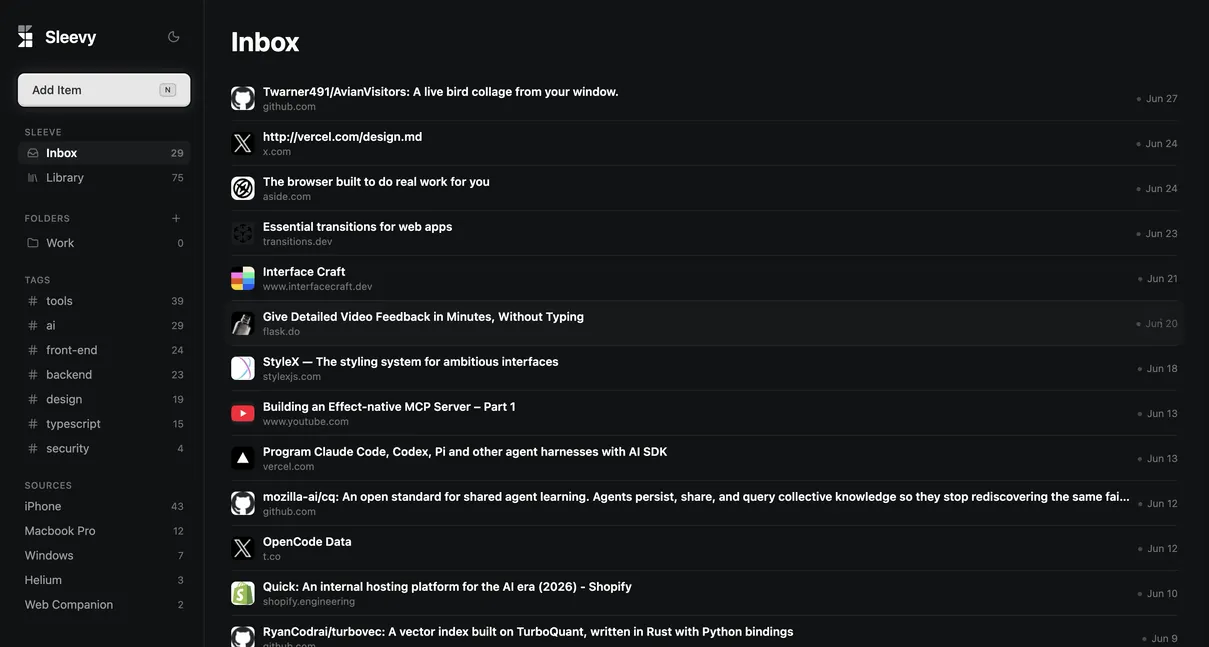
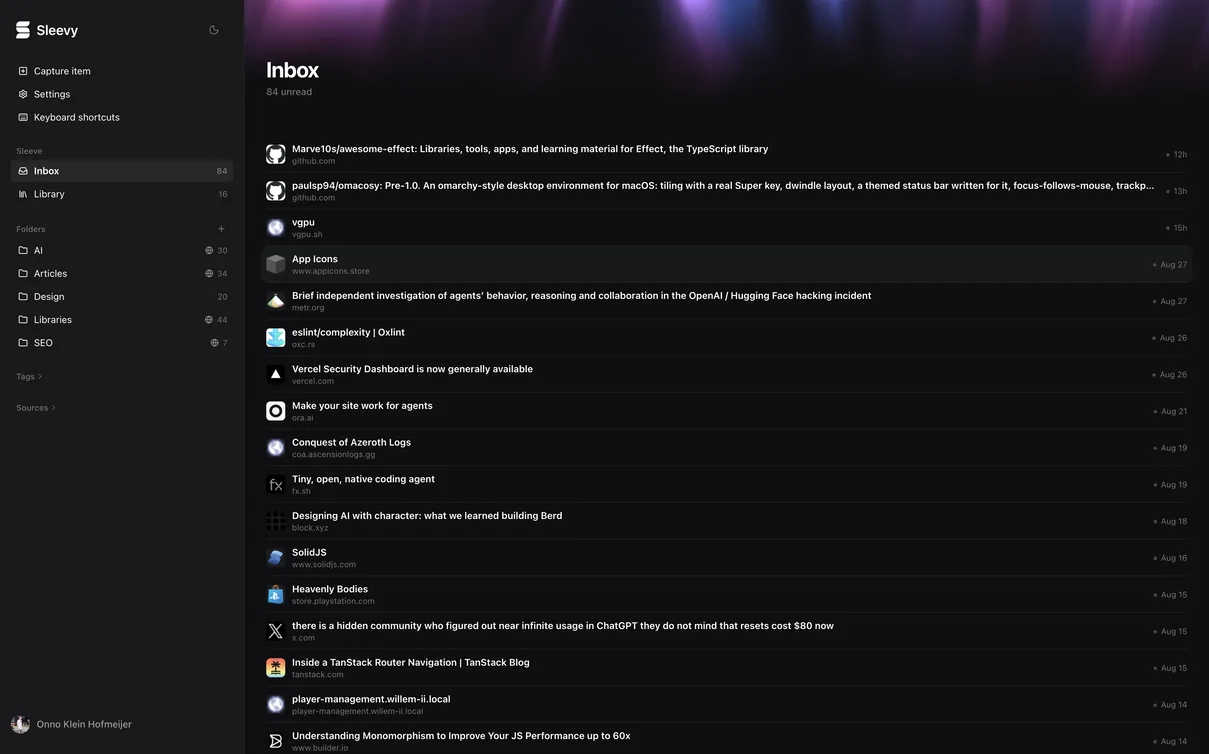
feat(web): refresh the web companion screenshot in the browser section

diff --git a/apps/web/src/components/marketing/browser-section/browser-section.tsx b/apps/web/src/components/marketing/browser-section/browser-section.tsx
@@ -15,7 +15,7 @@ export function BrowserSection() {
           srcSet="/web-companion-1209.webp 1x, /web-companion-2418.webp 2x"
           alt="Sleevy web app showing the inbox with saved links"
           width={1209}
-          height={647}
+          height={754}
           loading="lazy"
         />
       </div>
